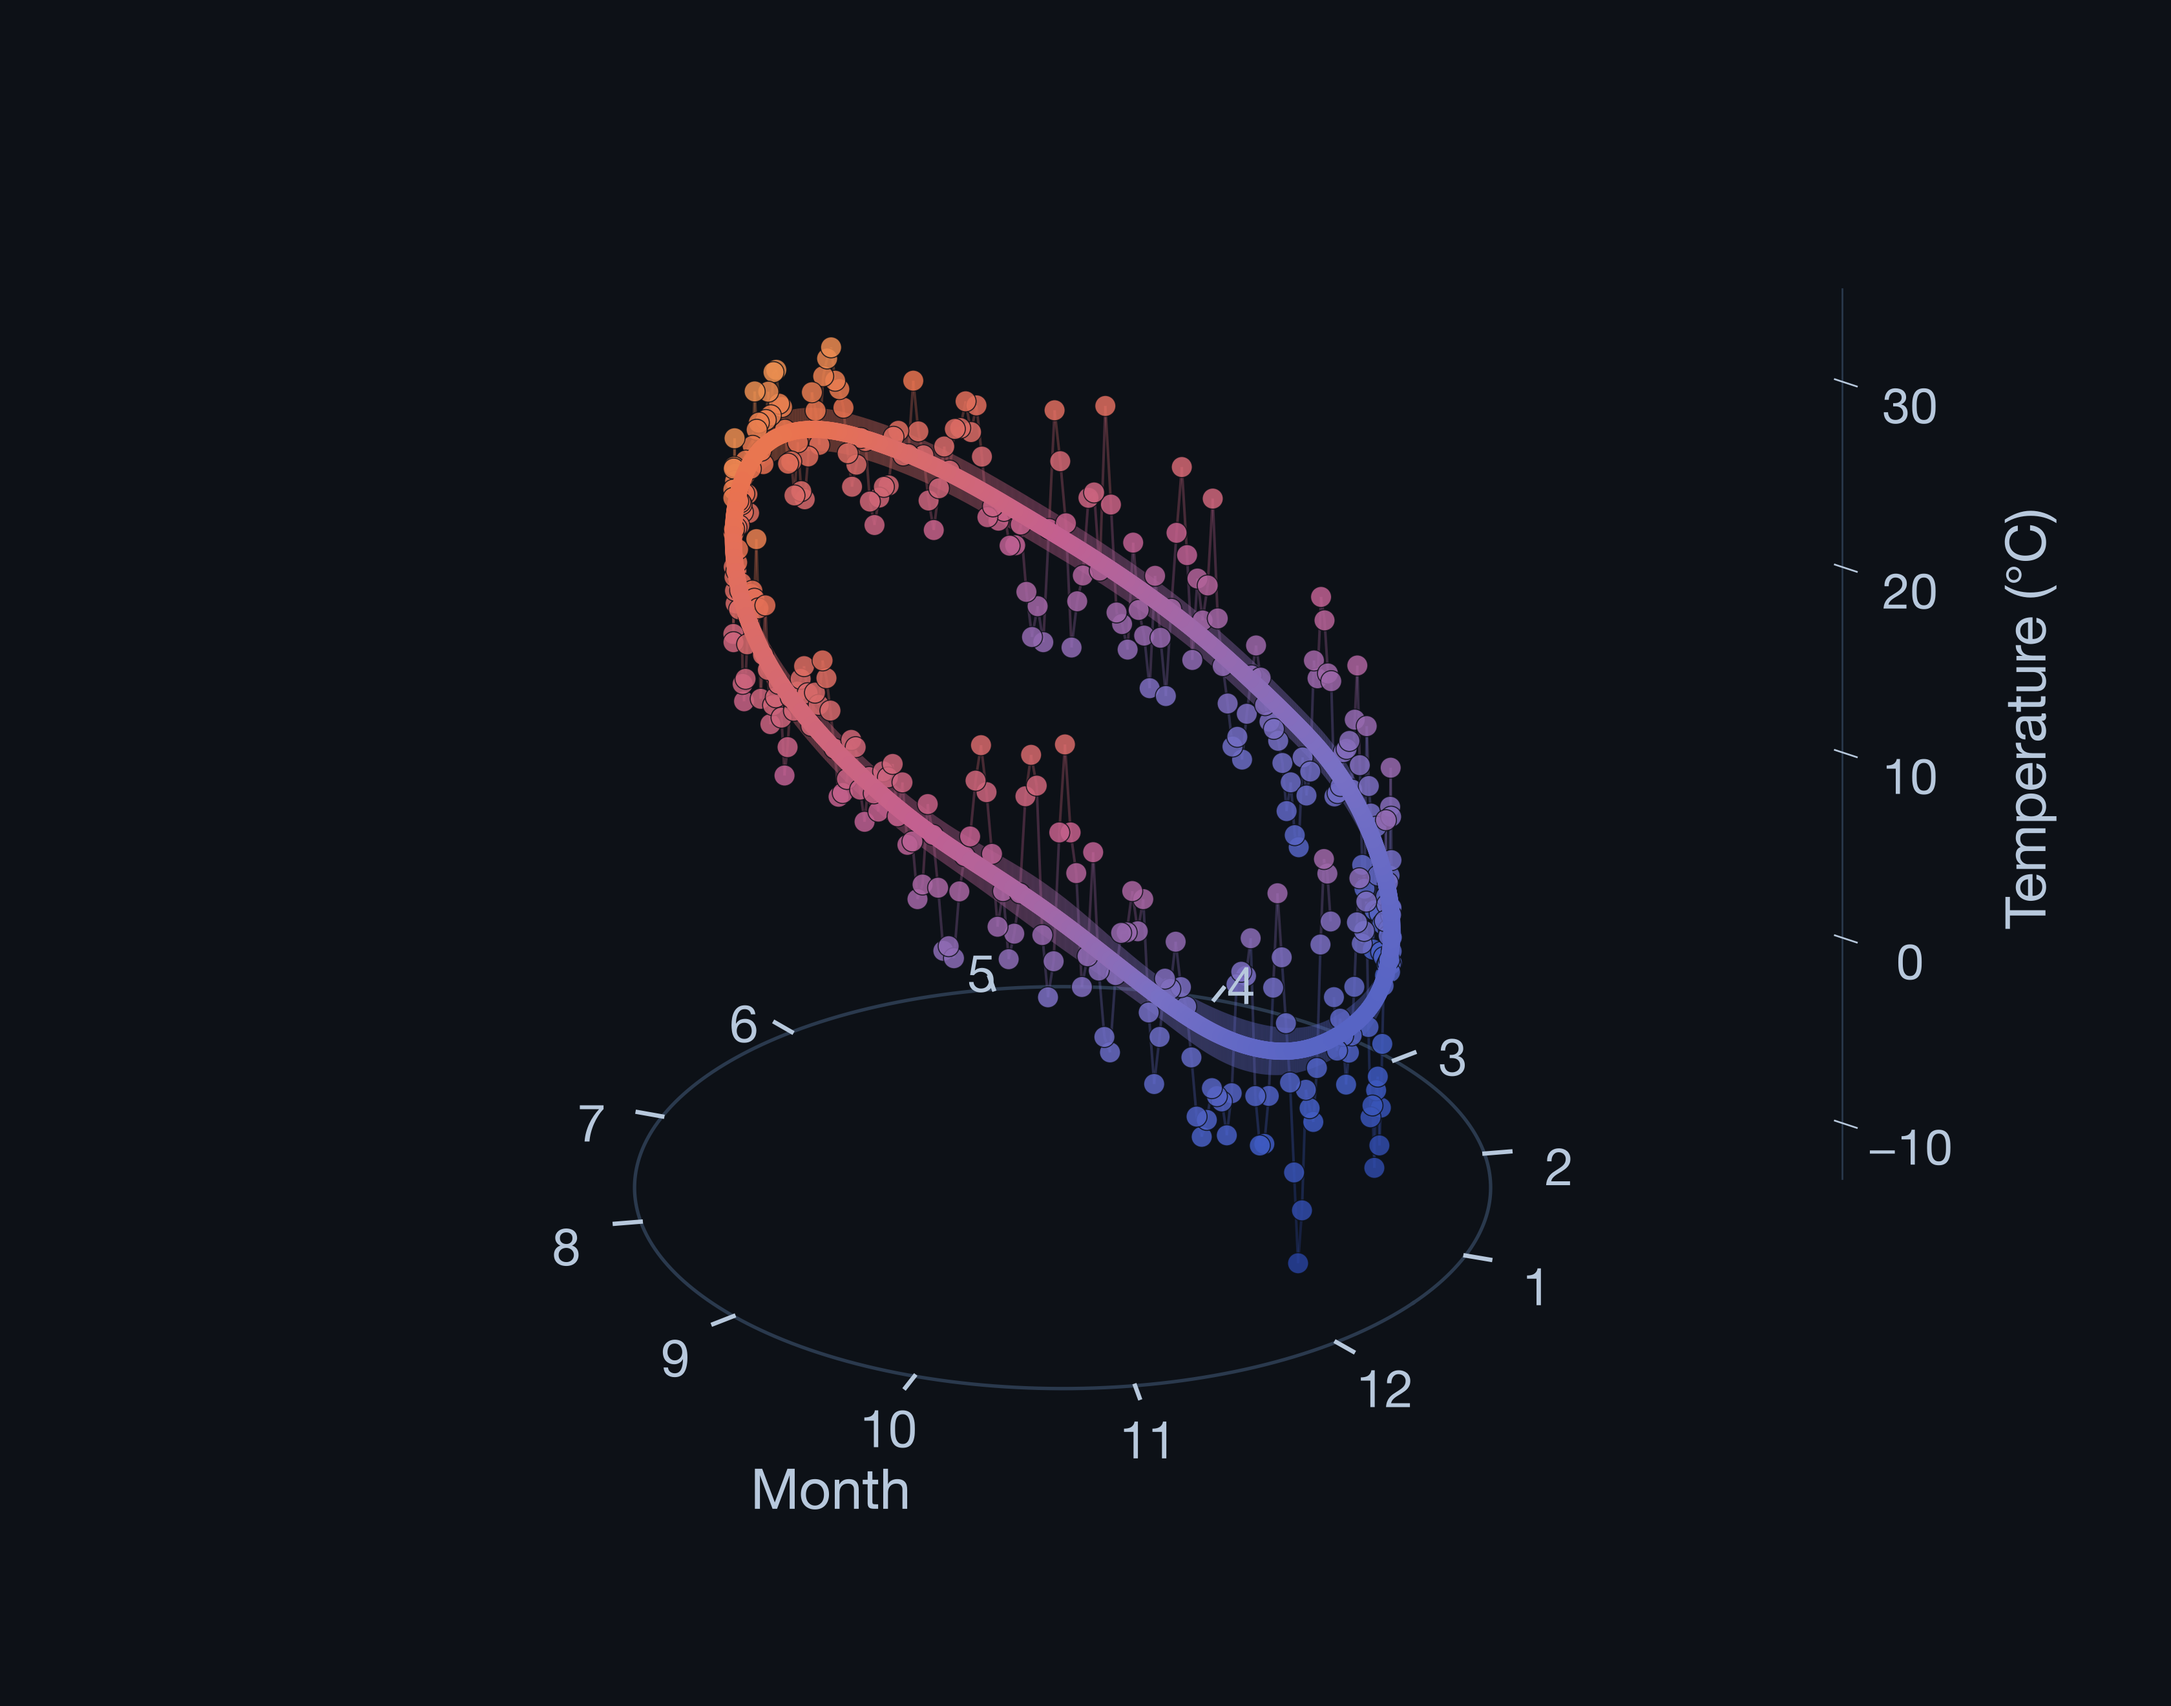
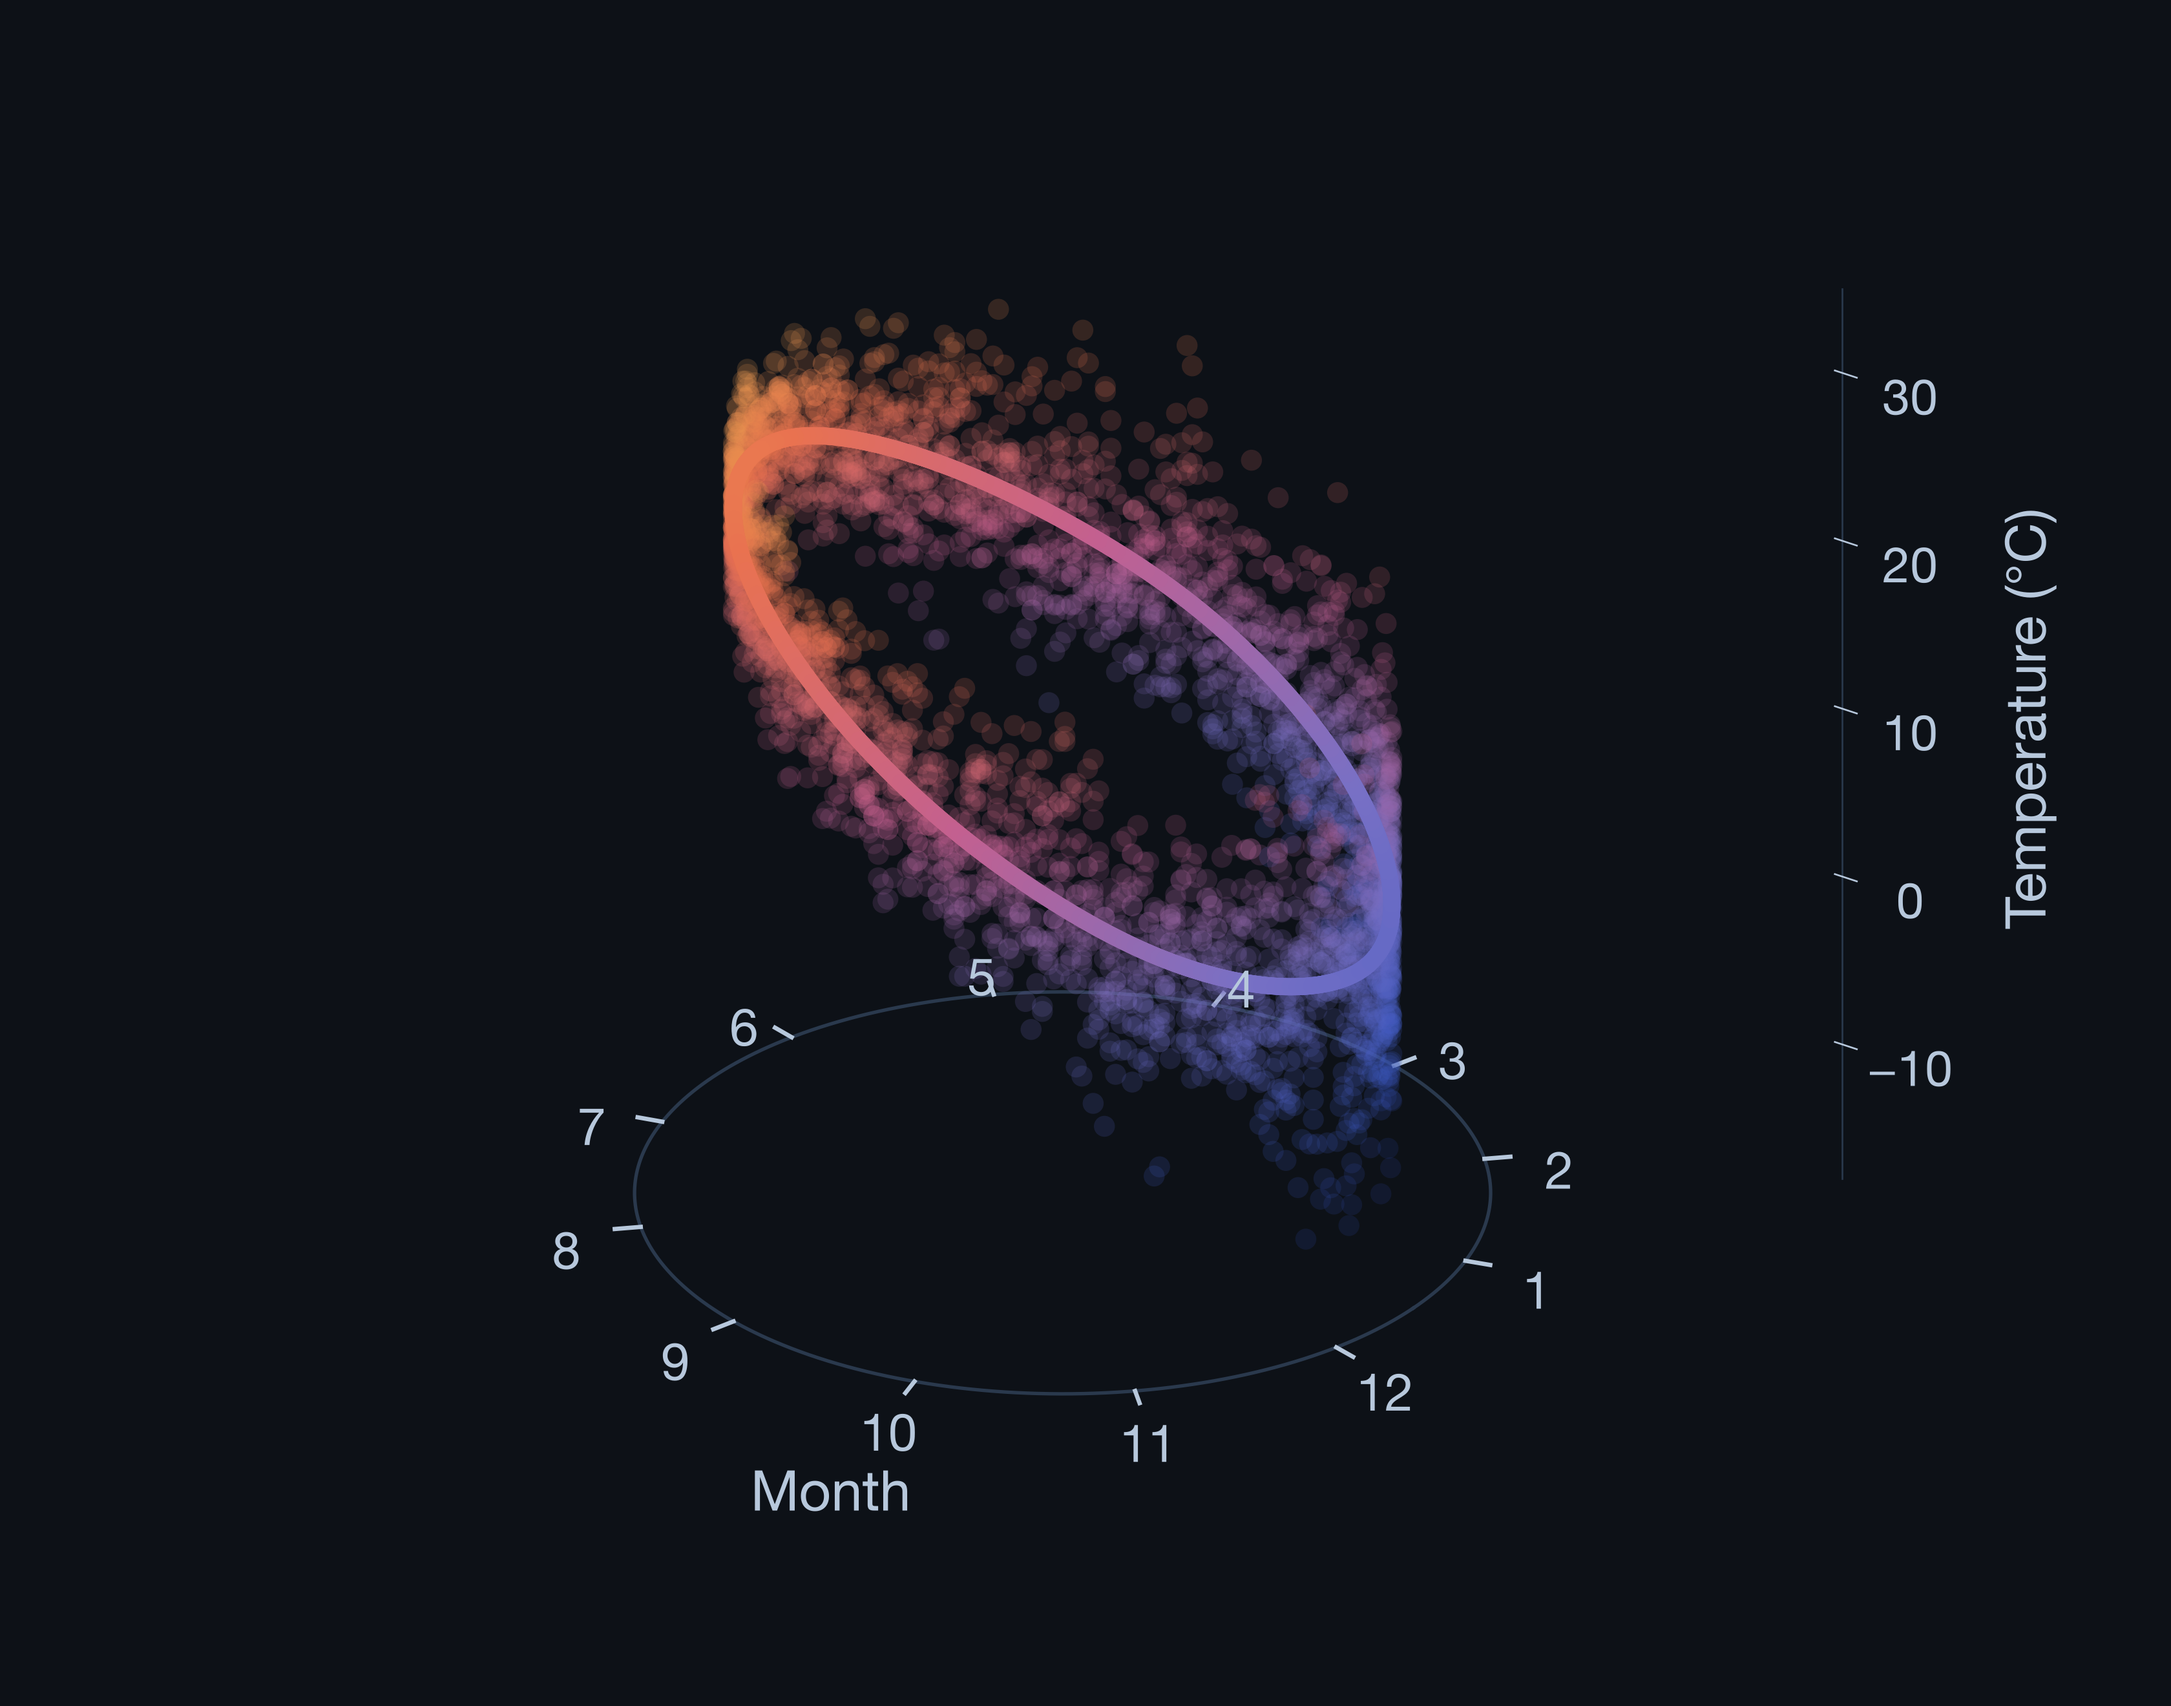
Combine ten years of daily temperatures into one translucent annual loop

diff --git a/scripts/gen_readme_temperature.py b/scripts/gen_readme_temperature.py
@@ -1,8 +1,10 @@
-"""One 3-D loop of all 366 daily temperatures and a periodic fit.
+"""One 3-D calendar loop of ten complete years of daily temperatures.
 
-NOAA GHCN-Daily station USW00094728 (New York Central Park), 2024.
+NOAA GHCN-Daily station USW00094728 (New York Central Park), 2015–2024.
 Each observation is a quality-approved daily (TMAX + TMIN) / 2 in Celsius.
-No averaging into months or downsampling: all 366 daily observations appear.
+No averaging into months or downsampling: all 3,653 daily observations appear.
+Calendar dates map to a common leap-year calendar, keeping January, February
+and March aligned across years. Observations are translucent, unconnected dots.
 Angle encodes day of year, while both height and colour encode temperature.
 The continuous fitted loop has a vertical 95% credible ribbon. Its mean and
 bounds wrap at the year boundary; calendar months mark the circular base axis.
@@ -14,6 +16,7 @@ Run from the repo root: python -m scripts.gen_readme_temperature
 from __future__ import annotations
 
 import calendar
+from datetime import date
 from pathlib import Path
 
 import matplotlib
@@ -24,7 +27,7 @@ import numpy as np
 import gamfit
 
 ROOT = Path(__file__).resolve().parents[1]
-SOURCE = ROOT / 'docs/data/central_park_2024.dly'
+SOURCE = ROOT / 'docs/data/central_park_2015_2024.dly'
 FORMULA = 'temperature ~ s(phase, periodic=true, period=1, k=60)'
 THEMES = {
     'light': dict(background='#ffffff', ink='#45566c', grid='#dce5ef',
@@ -37,21 +40,38 @@ THEMES = {
 def daily_data():
     daily = {}
     for line in SOURCE.read_text().splitlines():
-        assert line[:11] == 'USW00094728' and line[11:15] == '2024'
+        assert line[:11] == 'USW00094728'
+        year = int(line[11:15])
+        assert 2015 <= year <= 2024
         month = int(line[15:17])
         element = line[17:21]
         values = []
-        for day in range(calendar.monthrange(2024, month)[1]):
+        for day in range(calendar.monthrange(year, month)[1]):
             record = line[21 + day * 8:29 + day * 8]
             value, quality = int(record[:5]), record[6]
             values.append(value / 10 if value != -9999 and quality == ' ' else np.nan)
-        daily[month, element] = np.asarray(values)
+        daily[year, month, element] = np.asarray(values)
     temperature = np.concatenate([
-        (daily[month, 'TMAX'] + daily[month, 'TMIN']) / 2
-        for month in range(1, 13)
+        (daily[year, month, 'TMAX'] + daily[year, month, 'TMIN']) / 2
+        for year in range(2015, 2025) for month in range(1, 13)
     ])
-    assert len(temperature) == 366 and np.isfinite(temperature).all()
-    return {'phase': (np.arange(366) + 0.5) / 366, 'temperature': temperature}
+    phase = np.asarray([
+        ((date(2000, month, day) - date(2000, 1, 1)).days + 0.5) / 366
+        for year in range(2015, 2025) for month in range(1, 13)
+        for day in range(1, calendar.monthrange(year, month)[1] + 1)
+    ])
+    years = np.concatenate([
+        np.full(366 if calendar.isleap(year) else 365, year)
+        for year in range(2015, 2025)
+    ])
+    assert len(temperature) == len(phase) == len(years) == 3653
+    assert np.isfinite(temperature).all()
+    for year in range(2015, 2025):
+        assert phase[years == year][0] == phase[0]
+        assert phase[years == year][-1] == phase[-1]
+        march_first = 31 + calendar.monthrange(year, 2)[1]
+        assert phase[years == year][march_first] == 60.5 / 366
+    return {'phase': phase, 'temperature': temperature, 'year': years}
 
 
 def fit():
@@ -67,7 +87,7 @@ def fit():
     seam = model.predict({'phase': [-epsilon, 0, epsilon, 1-epsilon, 1, 1+epsilon]},
                          return_type='dict')['posterior_mean']
     np.testing.assert_allclose(seam[:3], seam[3:], atol=1e-9, rtol=0)
-    print('366 measured daily temperatures; fitted mean, 95% credible bounds and seam derivatives verified.')
+    print('3,653 daily temperatures from 10 years; calendar alignment, mean, 95% credible bounds and seamless wrapping verified.')
     return data, phase * 2 * np.pi, bands
 
 
@@ -80,7 +100,7 @@ def draw(data, theta, bands, theme, path):
     fig = plt.figure(figsize=(14, 11), dpi=240, facecolor=theme['background'])
     ax = fig.add_axes((0.025, 0.075, 0.91, 0.89), projection='3d',
                      facecolor=theme['background'], computed_zorder=False)
-    normalize = Normalize(-10, 35)
+    normalize = Normalize(-15, 35)
     palette = LinearSegmentedColormap.from_list('temperature', [
         '#233b91', '#405cc4', '#7870c5', '#c36090', '#e97250', '#f0b353',
     ])
@@ -109,30 +129,25 @@ def draw(data, theta, bands, theme, path):
     # Every daily observation is plotted, including short weather fluctuations.
     observations = ax.scatter(dx, dy, data['temperature'], s=95,
                c=palette(normalize(data['temperature'])),
-               edgecolors=theme['background'], linewidth=0.5,
-               depthshade=False, alpha=0.85, zorder=4)
-    assert len(observations._offsets3d[0]) == 366
-    daily_positions = np.column_stack([dx, dy, data['temperature']])
-    raw_segments = np.stack([daily_positions[:-1], daily_positions[1:]], axis=1)
-    raw_colors = palette(normalize((data['temperature'][:-1] + data['temperature'][1:])/2))
-    ax.add_collection3d(Line3DCollection(raw_segments, colors=raw_colors,
-                                        linewidths=1.2, alpha=0.3, zorder=2))
+               edgecolors='none', linewidth=0,
+               depthshade=False, alpha=0.18, zorder=4)
+    assert len(observations._offsets3d[0]) == 3653
     month_lengths = np.asarray([calendar.monthrange(2024, month)[1] for month in range(1, 13)])
     month_centers = (np.cumsum(month_lengths) - month_lengths/2) / 366
     months = month_centers * 2 * np.pi
 
     # The floor circle is the month axis, not a second data series.
-    ax.plot(1.3*x, 1.3*y, np.full_like(theta, -10), color=theme['grid'], linewidth=1.6, zorder=1)
+    ax.plot(1.3*x, 1.3*y, np.full_like(theta, -15), color=theme['grid'], linewidth=1.6, zorder=1)
     for month, angle in enumerate(months, 1):
         ax.plot([1.3*np.cos(angle), 1.38*np.cos(angle)],
-                [1.3*np.sin(angle), 1.38*np.sin(angle)], [-10, -10],
+                [1.3*np.sin(angle), 1.38*np.sin(angle)], [-15, -15],
                 color=theme['ink'], linewidth=2, zorder=1)
-        ax.text(1.53*np.cos(angle), 1.53*np.sin(angle), -11, str(month),
+        ax.text(1.53*np.cos(angle), 1.53*np.sin(angle), -16, str(month),
                 color=theme['ink'], fontsize=24, ha='center', va='center', zorder=6)
-    ax.text(0.4, -1.8, -12, 'Month', color=theme['ink'], fontsize=26,
+    ax.text(0.4, -1.8, -17, 'Month', color=theme['ink'], fontsize=26,
             ha='center', va='center', zorder=6)
 
-    ax.set(xlim=(-1.7, 1.7), ylim=(-1.7, 1.7), zlim=(-13, 35))
+    ax.set(xlim=(-1.7, 1.7), ylim=(-1.7, 1.7), zlim=(-18, 35))
     ax.set_xticks([])
     ax.set_yticks([])
     ax.set_zticks([-10, 0, 10, 20, 30])
@@ -149,6 +164,7 @@ def draw(data, theta, bands, theme, path):
     ax.yaxis.line.set_visible(False)
     assert len(fig.axes) == 1 and not ax.get_title() and not fig.texts
     assert ax.get_legend() is None
+    assert sum(isinstance(item, Line3DCollection) for item in ax.collections) == 1
     fig.canvas.draw()
     fig.savefig(path, dpi=240, facecolor=theme['background'])
     plt.close(fig)

diff --git a/README.md b/README.md
@@ -13,7 +13,7 @@ One Rust engine serves both the Python package (`gamfit`) and the CLI (`gam`).
 
 <picture>
   <source media="(prefers-color-scheme: dark)" srcset="docs/images/readme_temperature_dark.png">
-  <img alt="A single 3-D annual temperature loop showing all 366 daily Central Park observations from 2024. Height and color both encode temperature in Celsius; angle encodes day of year. The thick periodic gamfit mean and its vertical 95% credible ribbon join smoothly at the year boundary. The circular base axis marks calendar months." src="docs/images/readme_temperature.png" width="1200">
+  <img alt="A single 3-D calendar loop showing all 3,653 daily Central Park temperature observations from 2015–2024 as translucent, unconnected points. Every year maps to the same calendar. Height and color encode temperature in Celsius. The thick periodic gamfit mean and its vertical 95% credible ribbon join smoothly at the year boundary. The circular base axis marks months." src="docs/images/readme_temperature.png" width="1200">
 </picture>
 
 Docs: <https://gamfit.readthedocs.io/>. PyPI: <https://pypi.org/project/gamfit/>.
